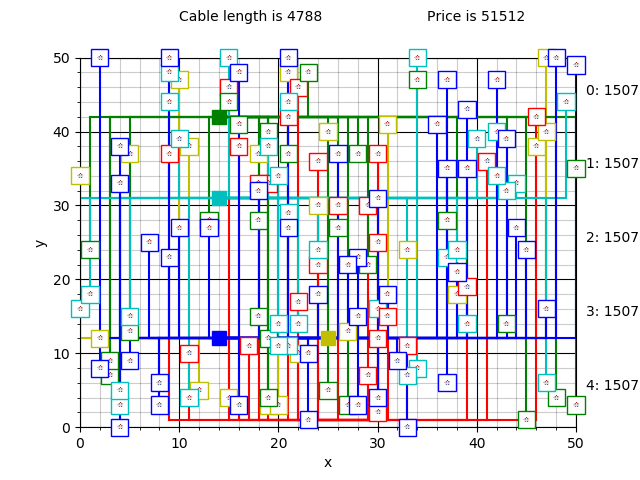
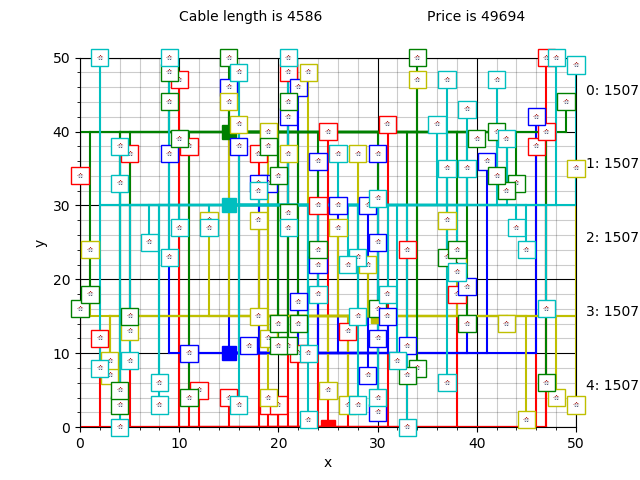
cheese

diff --git a/Functions/free_batteries.py b/Functions/free_batteries.py
@@ -40,7 +40,7 @@ def free_batteries(all_info):
 			fix_coor2 = False
 			while (fix_coor2 == False):
 				for house in all_info.houses :
-					if (house.x == x_coor) && (house.y == y_coor):
+					if (house.x == x_coor) and (house.y == y_coor):
 						a = random.sample([1, 2], 1)[0]
 						if (a == 1):
 							if x_coor == 50 :
@@ -60,6 +60,7 @@ def free_batteries(all_info):
 								y_coor += x
 						fix_coor2 = True
 				fix_coor = True
+				fix_coor2 = True
 		
 		all_info.battery_coordinates.append([x_coor, y_coor])
 		remove_list = []
